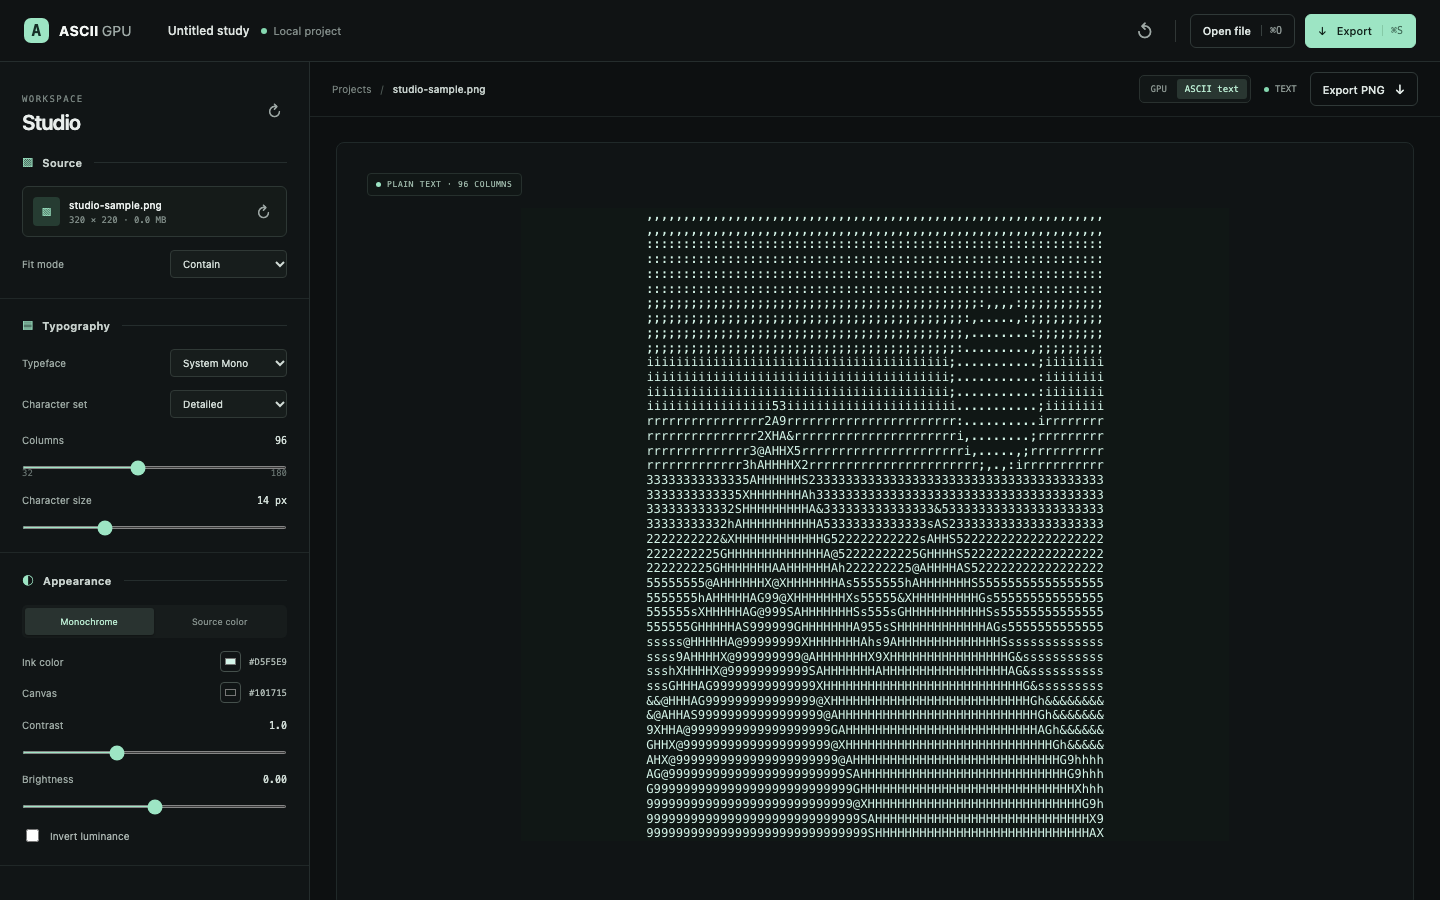
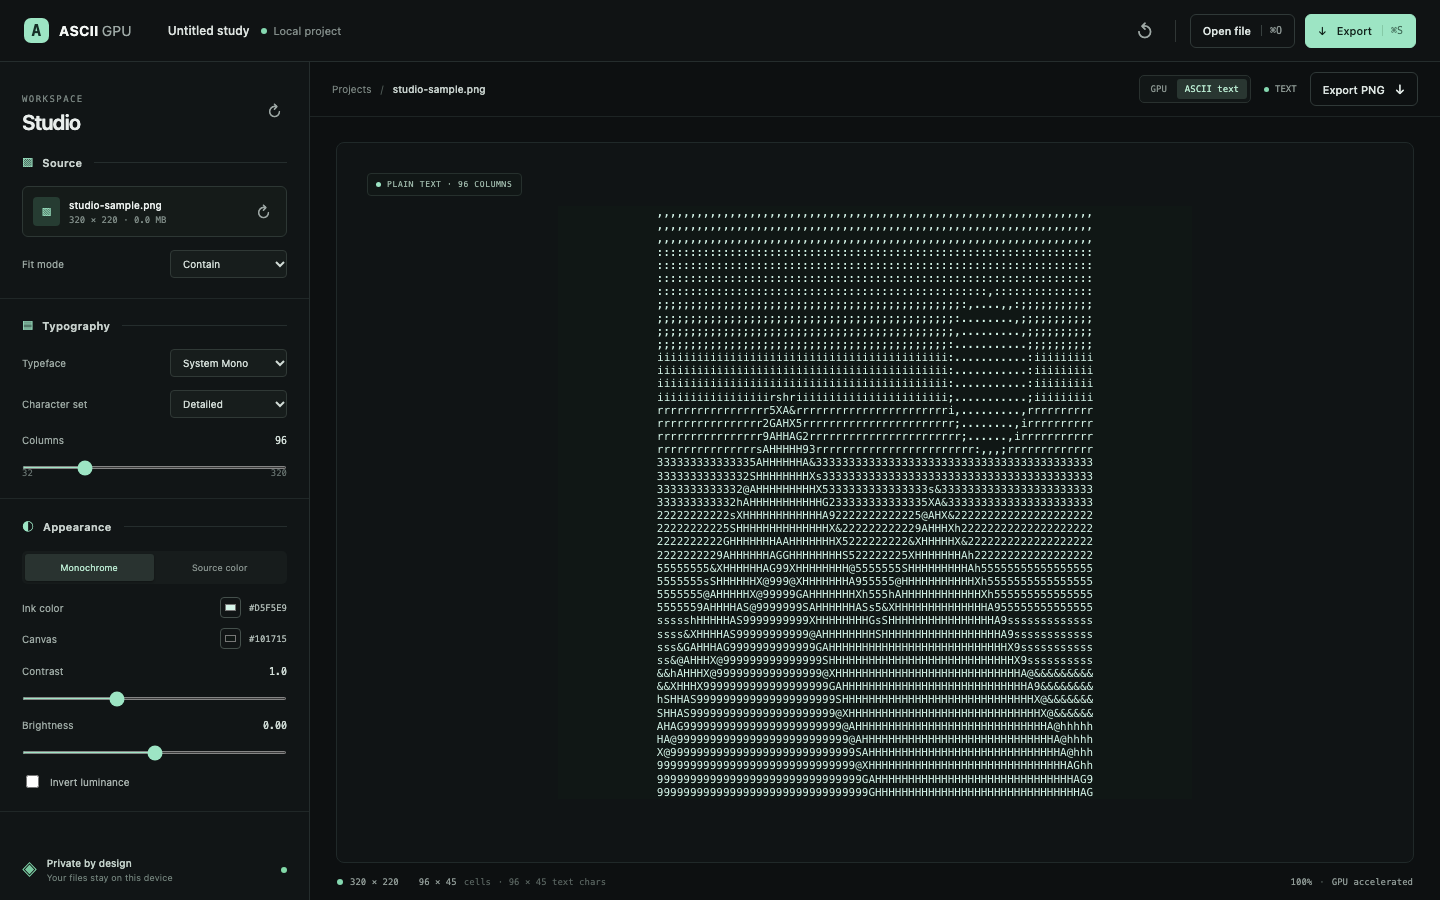
feat(renderer): increase ASCII output resolution

diff --git a/src/renderer.js b/src/renderer.js
@@ -118,7 +118,8 @@ export function createAsciiRenderer({ canvas, scene, onError = () => {}, onStats
   let textCanvas = null;
   const tile = { width: 1, height: 1 };
   let atlasScale = 1;
-  const targetAtlasScale = Math.min((window.devicePixelRatio || 1) * 2, 4);
+  const fontSize = 20;
+  const targetAtlasScale = Math.min((window.devicePixelRatio || 1) * 4, 8);
   const maxTextureSize = gl.getParameter(gl.MAX_TEXTURE_SIZE);
   const color = (hex) => [1, 3, 5].map((i) => parseInt(hex.slice(i, i + 2), 16) / 255);
   const setUniforms = (name, ...values) =>
@@ -131,24 +132,20 @@ export function createAsciiRenderer({ canvas, scene, onError = () => {}, onStats
     const chars = coverageOrder(
       currentScene.typography.charset,
       currentScene.typography.fontFamily,
-      currentScene.typography.fontSize,
+      fontSize,
       currentScene.typography.fontWeight,
     );
-    const font = `${currentScene.typography.fontWeight} ${currentScene.typography.fontSize}px ${currentScene.typography.fontFamily}`;
+    const font = `${currentScene.typography.fontWeight} ${fontSize}px ${currentScene.typography.fontFamily}`;
     const measurementCanvas = document.createElement('canvas');
     const measurementContext = measurementCanvas.getContext('2d');
     measurementContext.font = font;
     const metrics = chars.map((char) => measurementContext.measureText(char));
     const maxAdvance = Math.max(...metrics.map((metric) => metric.width));
     const ascent = Math.max(
-      ...metrics.map(
-        (metric) => metric.actualBoundingBoxAscent || currentScene.typography.fontSize * 0.8,
-      ),
+      ...metrics.map((metric) => metric.actualBoundingBoxAscent || fontSize * 0.8),
     );
     const descent = Math.max(
-      ...metrics.map(
-        (metric) => metric.actualBoundingBoxDescent || currentScene.typography.fontSize * 0.2,
-      ),
+      ...metrics.map((metric) => metric.actualBoundingBoxDescent || fontSize * 0.2),
     );
     tile.width = Math.max(2, Math.ceil(maxAdvance) + 2);
     tile.height = Math.max(2, Math.ceil(ascent + descent) + 2);
@@ -340,7 +337,7 @@ export function createAsciiRenderer({ canvas, scene, onError = () => {}, onStats
       cellWidth: tile.width,
       cellHeight: tile.height,
       atlasScale,
-      fontSize: currentScene.typography.fontSize,
+      fontSize,
     };
   }
 

diff --git a/src/App.vue b/src/App.vue
@@ -398,21 +398,10 @@ onBeforeUnmount(() => {
             v-model.number="scene.grid.columns"
             type="range"
             min="32"
-            max="180"
+            max="320"
             step="1"
           />
-          <div class="range-ends"><span>32</span><span>180</span></div>
-          <label class="field-label" for="fontsize"
-            >Character size <output>{{ scene.typography.fontSize }} px</output></label
-          >
-          <input
-            id="fontsize"
-            v-model.number="scene.typography.fontSize"
-            type="range"
-            min="8"
-            max="28"
-            step="1"
-          />
+          <div class="range-ends"><span>32</span><span>320</span></div>
         </section>
         <section class="inspector-section">
           <div class="section-title">
@@ -527,7 +516,6 @@ onBeforeUnmount(() => {
             :style="{
               '--columns': statsLabel.columns,
               '--rows': statsLabel.rows,
-              '--requested-font': `${scene.typography.fontSize}px`,
             }"
           >
             <pre aria-label="Plain text ASCII preview">{{ asciiText }}</pre>

diff --git a/tests/e2e/studio.spec.js b/tests/e2e/studio.spec.js
@@ -43,9 +43,11 @@ test('imports an image, renders through WebGL2, and exports the source project',
   const canvas = page.locator('canvas[aria-label="ASCII rendering preview"]');
   await expect(canvas).toHaveAttribute('data-columns', '96');
   await expect(canvas).toHaveAttribute('data-rows', /[1-9]/);
+  await expect(page.getByLabel('Columns')).toHaveAttribute('max', '320');
+  await expect(page.getByText('Character size')).toHaveCount(0);
   await expect
     .poll(() => canvas.getAttribute('data-atlas-scale').then(Number))
-    .toBeGreaterThanOrEqual(2);
+    .toBeGreaterThanOrEqual(4);
   await expect(page.getByText('LIVE PREVIEW')).toBeVisible();
   const cellAspect = await canvas.evaluate((element) => element.width / element.height);
   const contentAspect = await canvas.evaluate(
@@ -178,7 +180,7 @@ test('maps dark image cells to denser glyphs than bright image cells', async ({ 
     });
     return halves;
   });
-  expect(coverage[0]).toBeGreaterThan(coverage[1] + 0.25);
+  expect(coverage[0]).toBeGreaterThan(coverage[1] + 0.2);
 });
 
 test('rejects a malicious .ascii archive with traversal paths', async ({ page }) => {

diff --git a/src/style.css b/src/style.css
@@ -682,11 +682,7 @@ input[type='range'] {
   color: #d5f5e9;
   background: #101715;
   font-family: ui-monospace, SFMono-Regular, Menlo, monospace;
-  font-size: min(
-    var(--requested-font),
-    calc(90cqw / var(--columns) / 0.62),
-    calc(90cqh / var(--rows) / 1.2)
-  );
+  font-size: min(calc(90cqw / var(--columns) / 0.62), calc(90cqh / var(--rows) / 1.2));
   line-height: 1.2;
   letter-spacing: 0;
   white-space: pre;

diff --git a/docs/ARCHITECTURE.md b/docs/ARCHITECTURE.md
@@ -6,7 +6,7 @@ The current renderer uses one fragment pass: per output fragment, it samples a s
 
 Cell count is capped at 40,000. Glyph density, advance width, ascent, and descent are measured using Canvas 2D; the atlas tiles and output grid use those font metrics rather than a fixed oversized cell. The shader rounds density to one atlas glyph index and samples both local X and Y coordinates, so it draws the complete glyph instead of interpolating between adjacent glyphs or showing a single vertical slice. Atlas is rebuilt when typography changes and GL objects are disposed with the Studio. Media is held in memory through object URLs and revoked on source replacement/unmount.
 
-The glyph atlas is rasterized at 2× device-pixel ratio, up to 4×, while preserving logical font metrics. The scale is reduced if needed to stay within the GPU's maximum texture dimensions. Atlas sampling accounts for the vertical flip applied during upload so glyphs remain upright. The framebuffer uses one uniform scale based on the grid's measured aspect ratio and available preview space; it never independently stretches width and height. Atlas samples are inset by half a texel to avoid adjacent-glyph bleeding under linear filtering. The status bar reports actual framebuffer pixels separately from source dimensions and cell count. An alternate plain-text preview builds a normal monospace text grid on demand; video updates in this mode use CPU canvas sampling at up to 8 fps and can be slower than GPU preview.
+The glyph atlas uses a fixed 20 px internal font size and is rasterized at 4× device-pixel ratio, up to 8×, preserving logical font metrics and subject to the GPU's maximum texture dimensions. Font size is not a user control: output detail is controlled by grid columns (32–320 in the Studio) and charset. Atlas sampling accounts for the vertical flip applied during upload so glyphs remain upright. The framebuffer uses one uniform scale based on the grid's measured aspect ratio and available preview space; it never independently stretches width and height. Atlas samples are inset by half a texel to avoid adjacent-glyph bleeding under linear filtering. The status bar reports actual framebuffer pixels separately from source dimensions and cell count. An alternate plain-text preview builds a normal monospace text grid on demand; video updates in this mode use CPU canvas sampling at up to 8 fps and can be slower than GPU preview.
 
 ## Decisions
 

diff --git a/docs/DELIVERY_REPORT.md b/docs/DELIVERY_REPORT.md
@@ -15,7 +15,7 @@
 - Vue 3/Vite Studio in JavaScript ESM, Node 24.20.0 / pnpm 11.24.0; no TypeScript.
 - Responsive dark Studio with local image/video selection, drag-and-drop, loading/error states, fitted canvas and mobile controls view.
 - Real WebGL2 glyph-atlas renderer; live columns, built-in charset, font family/size, monochrome/source color, fit, foreground/background, contrast, brightness and invert. Cell advance and height use measured font metrics; the shader selects a discrete glyph and samples the full glyph tile. Cell count is capped at 40,000, with no per-frame GPU readback.
-- Glyph atlas rasterization uses 2× device-pixel ratio up to 4×, bounded by the GPU maximum texture size; framebuffer dimensions keep the measured glyph-cell aspect ratio and are shown as GPU pixel dimensions in the status bar.
+- Glyph atlas uses a fixed 20 px internal font size and rasterizes at 4× device-pixel ratio up to 8×, bounded by the GPU maximum texture size. Font size is not user-adjustable; the Studio provides 32–320 grid columns for resolution control. Framebuffer dimensions keep the measured glyph-cell aspect ratio and are shown as GPU pixel dimensions in the status bar.
 - Added a toggle between WebGL preview and a normal selectable/copyable plain-text ASCII grid, generated from the same source frame and scene adjustments. Video text previews refresh at up to 8 fps to limit CPU work.
 - Corrected luminance-to-glyph mapping: dark image cells now select denser glyphs and bright cells lighter glyphs. A dedicated half-black/half-white browser regression verifies the output.
 - A browser regression check confirms glyphs have horizontal mask variation and multiple distinct cell masks; this guards against sampling a single atlas column or blending adjacent characters.
@@ -32,7 +32,7 @@
 | ------------------- | --------------------------------------------------------------- |
 | `pnpm lint`         | PASS, no warnings                                               |
 | `pnpm test`         | PASS, 5 unit tests                                              |
-| `pnpm build`        | PASS; 116.47 kB JS (45.27 kB gzip), 13.19 kB CSS (3.82 kB gzip) |
+| `pnpm build`        | PASS; 116.15 kB JS (45.25 kB gzip), 13.16 kB CSS (3.81 kB gzip) |
 | `pnpm format:check` | PASS                                                            |
 | `pnpm test:e2e`     | PASS, 6 Chromium scenarios                                      |
 

diff --git a/docs/STATUS.md b/docs/STATUS.md
@@ -6,13 +6,13 @@ Latest verified implementation commit: `e835d84` (`fix(renderer): sample complet
 
 Additional checkpoints: `9c9633c` (Studio/runtime implementation), `c229bda` (video audio decode E2E), `06410a5` (archive path hardening)
 
-Latest working-tree checks: `pnpm lint` PASS; `pnpm test` PASS (5 tests); `pnpm build` PASS (116.47 kB JS, 13.19 kB CSS); `pnpm format:check` PASS; `pnpm test:e2e` PASS (6 Chromium scenarios, including dark-to-dense glyph mapping, distinct glyph masks, and source audio decode).
+Latest working-tree checks: `pnpm lint` PASS; `pnpm test` PASS (5 tests); `pnpm build` PASS (116.15 kB JS, 13.16 kB CSS); `pnpm format:check` PASS; `pnpm test:e2e` PASS (6 Chromium scenarios, including fixed font control, 320-column limit, high-resolution atlas, dark-to-dense glyph mapping, distinct glyph masks, and source audio decode).
 
 ## Works now
 
 - Responsive Vue 3/Vite Studio with empty state, local image/video import, error handling, and no media upload.
-- Real WebGL2 fragment shader with measured glyph atlas, live columns/font/charset/color/fit/brightness/contrast/invert controls, and PNG capture.
-- Toggle between WebGL output and normal monospace ASCII text; glyph atlas rasterization uses 2× device-pixel ratio up to 4×, bounded by the GPU texture limit. Framebuffer preserves cell aspect ratio and reports actual WebGL pixel dimensions.
+- Real WebGL2 fragment shader with measured glyph atlas, adjustable columns/charset/color/fit/brightness/contrast/invert controls, and PNG capture. Font size is fixed internally rather than exposed as a separate setting.
+- Toggle between WebGL output and normal monospace ASCII text; Studio grid supports 32–320 columns. Glyph atlas rasterization uses 4× device-pixel ratio up to 8×, bounded by the GPU texture limit. Framebuffer preserves cell aspect ratio and reports actual WebGL pixel dimensions.
 - Corrected tonal mapping so dark pixels select denser glyphs and bright pixels select lighter glyphs; a black/white split-image browser regression verifies the behavior.
 - Native HTML video audio and media clock, `requestVideoFrameCallback` rendering/fallback, user-triggered play/pause/seek/loop/mute/volume.
 - `.ascii` v1 ZIP export/import containing manifest, original source, preview PNG, and settings; streaming path/entry/expanded-size checks.

diff --git a/docs/AGENT_HANDOFF.md b/docs/AGENT_HANDOFF.md
@@ -4,7 +4,7 @@
 
 Vue 3/Vite local-first Studio with a raw WebGL2 ASCII renderer. The Studio imports local raster images and browser-supported video; `HTMLVideoElement` supplies both video clock and original audio. `.ascii` projects are versioned ZIP files, extracted with streaming size/path/count checks. `packages/vue` contains the in-repository Vue player and a runnable Vite example.
 
-Latest verified implementation commit: `5c9363a`; the current uncommitted renderer change increases glyph-atlas rasterization to 2× device-pixel ratio up to 4×, respecting GPU texture limits. Earlier verified behavior includes plain-text ASCII preview, aspect-correct framebuffer sizing, and dark-to-dense glyph mapping. Re-run the full check set after the atlas resolution change.
+Latest verified commit: `58325f3`; current working tree removes the font-size slider, fixes internal glyph font size at 20 px, increases atlas raster scale to 4× device-pixel ratio up to 8× subject to GPU texture limits, and expands the Studio columns control to 320. Verified: lint, 5 unit tests, production build, format check, and all 6 Chromium E2E scenarios.
 
 ## First files to read
 
@@ -38,4 +38,4 @@ No WebGL context restoration/fallback, audio acoustic assertion, other-browser E
 
 ## Resume
 
-The latest renderer and text-preview changes have passed the full local check set. Do not describe M6 as complete until the outstanding security, cross-browser, accessibility, and release checks are evidenced.
+The latest UI/renderer changes have passed the full local check set. Do not describe M6 as complete until the outstanding security, cross-browser, accessibility, and release checks are evidenced.

diff --git a/README.md b/README.md
@@ -21,8 +21,8 @@ ASCII GPU Studio è un'applicazione web per esplorare e rifinire conversioni ASC
 ## Funzionalità
 
 - **Immagini e video locali** — apri un file o trascinalo nello Studio. I video vengono riprodotti con l'audio originale del browser, sincronizzato con i fotogrammi.
-- **Rendering WebGL2** — atlante dei glifi rasterizzato ad alta risoluzione (fino a 4×, nei limiti della GPU), selezione della densità e proporzioni delle celle basate sulle metriche del font.
-- **Controlli di resa** — regola charset, colonne, dimensione e famiglia del font, modalità colore, contrasto, luminosità, inversione e adattamento dell'immagine.
+- **Rendering WebGL2** — atlante dei glifi rasterizzato ad alta risoluzione (4×–8×, nei limiti della GPU), selezione della densità e proporzioni delle celle basate sulle metriche del font.
+- **Controlli di resa** — regola charset, griglia da 32 a 320 colonne, famiglia del font, modalità colore, contrasto, luminosità, inversione e adattamento dell'immagine. La dimensione dei caratteri è gestita automaticamente.
 - **Anteprima ASCII testuale** — passa dalla preview GPU al testo monospace normale, pronto da selezionare e copiare.
 - **Esportazione** — salva un progetto `.ascii` con sorgente, impostazioni e miniatura oppure esporta la preview in PNG.
 - **Player Vue riutilizzabile** — nel repository trovi il componente e un esempio funzionante.

diff --git a/docs/TODO.md b/docs/TODO.md
@@ -13,6 +13,7 @@ Each status reflects the tested user-facing path, not code presence alone. Estim
 - [x] AGPU-031 [P0] Export PNG from WebGL canvas — M5; browser validates PNG signature and nonzero dimensions; `9c9633c`.
 - [x] AGPU-032 [P0] Vue `AsciiPlayer` wrapper and runnable example — M5; browser loads a generated `.ascii` and renders it; `9c9633c`.
 - [x] AGPU-040 [P0] Reject ZIP traversal and drive-absolute paths during bounded streaming extraction — unit/E2E cover path rejection; `06410a5`.
+- [x] AGPU-014 [P1] Remove user font-size control and improve raster detail — fixed internal 20 px glyph size, 4×–8× GPU-aware atlas scale, and 32–320 column control; covered by Chromium E2E.
 
 ## In progress
 
